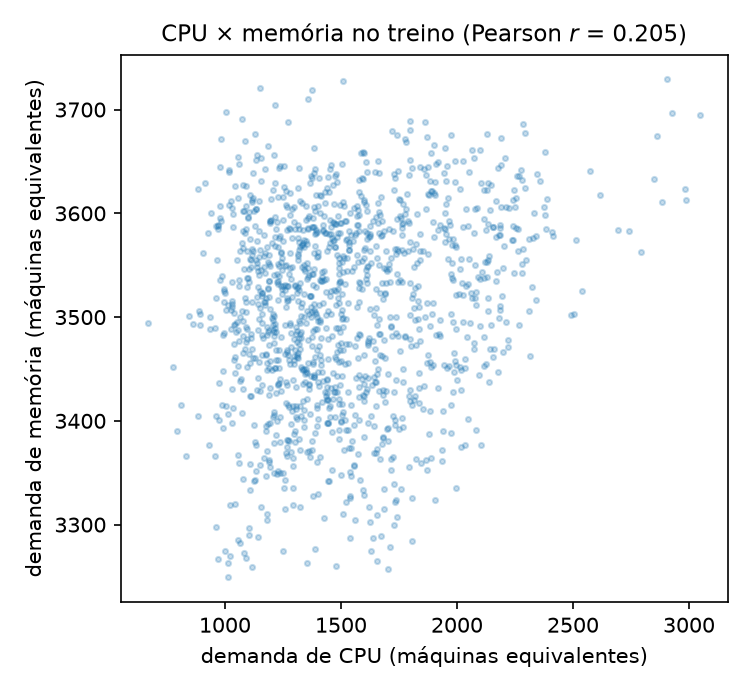
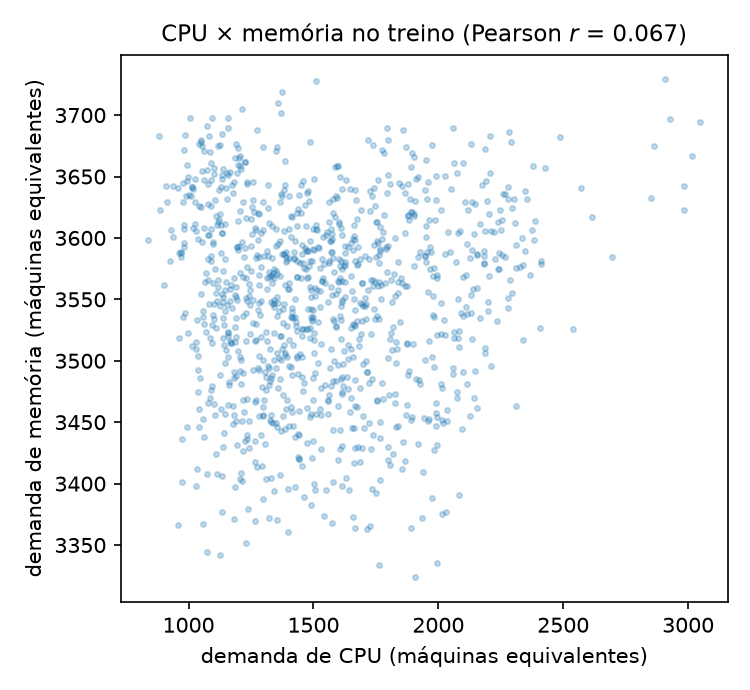
feat(fase-1): adota a definicao de demanda aprovada no G1
min_coverage = 0.9 e trim_leading_missing = true: a serie passa a ser o trecho
limpo do rastro, com 1769 intervalos (6,14 dias), cobertura minima de 0,978 e
zero NaN. Descarta 1,64 dia inicial com so 68% das maquinas reportando e o
apagao de coleta de 5 h que caia dentro do treino.

Tambem corrige o relatorio, que comparava estatisticas por maquina do rastro
completo com o numero de intervalos da serie cortada, e passa a formatar os
numeros em portugues. A fixture dos testes sinteticos agora fixa os parametros
da definicao base em vez de herda-los de configs/v0.toml.

diff --git a/src/tcc/data/quality.py b/src/tcc/data/quality.py
@@ -16,6 +16,19 @@ from tcc.data.paths import connect, interim_path, resolve
 from tcc.data.series import load_series, split_series
 
 
+def _pt(value: Any) -> str:
+    """Formata um número no padrão português: milhar com ponto, decimal com vírgula."""
+    if isinstance(value, bool):
+        return "sim" if value else "não"
+    if isinstance(value, (int,)) or (hasattr(value, "is_integer") and float(value).is_integer()):
+        text = f"{int(value):,}"
+    elif isinstance(value, float):
+        text = f"{value:,.4f}".rstrip("0").rstrip(".")
+    else:
+        return str(value)
+    return text.replace(",", "\x00").replace(".", ",").replace("\x00", ".")
+
+
 def _gap_runs(no_data: pd.Series) -> list[tuple[int, int]]:
     """Sequências contíguas de *buckets* sem dado, como (início, comprimento)."""
     runs: list[tuple[int, int]] = []
@@ -69,7 +82,8 @@ def collect_metrics(cfg: dict[str, Any]) -> pd.DataFrame:
                 max(last_bucket) AS max_last_bucket,
                 median(last_bucket) AS median_last_bucket,
                 count(*) FILTER (WHERE first_bucket = 0) AS n_starting_at_zero,
-                median(n_buckets) AS median_buckets_per_machine
+                median(n_buckets) AS median_buckets_per_machine,
+                max(last_bucket) + 1 AS n_buckets_trace
             FROM (
                 SELECT machine_id,
                        min(bucket) AS first_bucket,
@@ -96,6 +110,13 @@ def collect_metrics(cfg: dict[str, Any]) -> pd.DataFrame:
 
     rows: list[tuple[str, Any, str]] = [
         ("source", data["source"], "fonte dos dados"),
+        ("min_coverage", data["min_coverage"], "cobertura mínima para o intervalo valer"),
+        (
+            "trim_leading_missing",
+            data["trim_leading_missing"],
+            "descarta o trecho inicial sem demanda válida",
+        ),
+        ("first_bucket_start", int(series["bucket_start"].iloc[0]), "início da série, em segundos"),
         ("n_rows_raw", n_rows, "linhas lidas do CSV bruto"),
         ("n_machines", n_machines, "máquinas distintas no rastro (N da definição de demanda)"),
         ("n_intervals", t, f"intervalos de {interval} s na série final"),
@@ -174,9 +195,14 @@ def collect_metrics(cfg: dict[str, Any]) -> pd.DataFrame:
             "último bucket por máquina: mín./mediana/máx.",
         ),
         (
+            "n_buckets_trace",
+            int(per_machine["n_buckets_trace"]),
+            "buckets do rastro completo, antes de qualquer corte",
+        ),
+        (
             "median_buckets_per_machine",
             float(per_machine["median_buckets_per_machine"]),
-            "mediana de buckets com dado por máquina (de n_intervals possíveis)",
+            "mediana de buckets com dado por máquina, no rastro completo",
         ),
         (
             "split_sizes",
@@ -219,38 +245,50 @@ def write_quality_report(cfg: dict[str, Any]) -> Path:
         "",
         "## Resumo",
         "",
-        f"- {value('n_rows_raw'):,} linhas brutas, {value('n_machines'):,} máquinas distintas "
-        f"(**N = {value('n_machines')}** na definição de demanda).",
-        f"- {value('n_intervals'):,} intervalos, cobrindo {value('duration_days')} dias.",
-        f"- Amostragem original estimada em ~{value('sampling_seconds_median')} s por máquina "
+        f"- {_pt(value('n_rows_raw'))} linhas brutas, {_pt(value('n_machines'))} máquinas "
+        f"distintas (**N = {value('n_machines')}** na definição de demanda).",
+        f"- {_pt(value('n_intervals'))} intervalos, cobrindo "
+        f"{_pt(value('duration_days'))} dias, a partir de "
+        f"t = {_pt(value('first_bucket_start'))} s do rastro.",
+        f"- Amostragem original estimada em ~{_pt(value('sampling_seconds_median'))} s por máquina "
         f"(amostras por intervalo, p05–p95: {value('samples_per_bucket_p05_p95')}), "
         "confirmando que a amostragem é irregular.",
         f"- Divisão cronológica treino/validação/teste: {value('split_sizes')} intervalos.",
         "",
         "## Cobertura e lacunas",
         "",
-        f"- Cobertura mediana: {float(value('coverage_median')):.4f}; "
-        f"mínima: {float(value('coverage_min')):.4f}.",
+        f"- Cobertura mediana: {_pt(round(float(value('coverage_median')), 4))}; "
+        f"mínima: {_pt(round(float(value('coverage_min')), 4))}.",
         f"- Intervalos com cobertura < 100%: "
-        f"{float(value('frac_buckets_coverage_below_1')):.4f} do total.",
-        f"- Intervalos sem nenhuma amostra: {value('n_buckets_no_data')}; "
-        f"preenchidos por interpolação: {value('n_buckets_filled')}.",
+        f"{_pt(round(float(value('frac_buckets_coverage_below_1')) * int(value('n_intervals'))))}"
+        f" de {_pt(value('n_intervals'))}.",
+        f"- Regra em vigor: `min_coverage = {value('min_coverage')}` (intervalos com cobertura "
+        f"abaixo disso viram lacuna), `trim_leading_missing = "
+        f"{str(value('trim_leading_missing')).lower()}` e `max_fill_gap = "
+        f"{cfg['data']['max_fill_gap']}`.",
+        f"- Intervalos sem nenhuma amostra: {_pt(value('n_buckets_no_data'))}; "
+        f"preenchidos por interpolação: {_pt(value('n_buckets_filled'))}.",
         f"- Lacunas maiores que `max_fill_gap`: {value('n_gaps_above_max_fill')} "
         f"({value('gaps_above_max_fill_detail')}).",
+        "",
+        "As estatísticas por máquina abaixo são do **rastro completo** "
+        f"({_pt(value('n_buckets_trace'))} intervalos), antes do corte:",
+        "",
         f"- Mediana de intervalos com dado por máquina: "
-        f"{value('median_buckets_per_machine')} de {value('n_intervals')}.",
-        f"- Máquinas cujo primeiro intervalo é 0: {value('n_machines_starting_at_bucket_0')} "
-        f"de {value('n_machines')}; primeiro intervalo por máquina (mín./mediana/máx.): "
+        f"{_pt(value('median_buckets_per_machine'))} de {_pt(value('n_buckets_trace'))}.",
+        f"- Máquinas cujo primeiro intervalo é 0: "
+        f"{_pt(value('n_machines_starting_at_bucket_0'))} de {_pt(value('n_machines'))}; "
+        f"primeiro intervalo por máquina (mín./mediana/máx.): "
         f"{value('machine_first_bucket_min_median_max')}; último: "
-        f"{value('machine_last_bucket_min_median_max')}. Isso responde se os `time_stamp` "
-        "compartilham a mesma origem.",
+        f"{value('machine_last_bucket_min_median_max')}. Os `time_stamp` compartilham a mesma "
+        "origem; o que varia é o tempo de vida de cada máquina no rastro.",
         f"- `NaN` restantes em `demand_cpu`: {value('n_nan_demand_cpu')}.",
         "",
         "## Amostras descartadas",
         "",
-        f"- CPU nula ou fora de [0, 100]: {value('n_cpu_dropped')} amostras "
+        f"- CPU nula ou fora de [0, 100]: {_pt(value('n_cpu_dropped'))} amostras "
         f"({float(value('frac_cpu_dropped')):.2e} das linhas).",
-        f"- Memória nula ou fora de [0, 100]: {value('n_mem_dropped')} amostras.",
+        f"- Memória nula ou fora de [0, 100]: {_pt(value('n_mem_dropped'))} amostras.",
         "",
         "## Demanda (em máquinas equivalentes totalmente utilizadas)",
         "",
@@ -259,8 +297,9 @@ def write_quality_report(cfg: dict[str, Any]) -> Path:
     ]
     for col in ("demand_cpu", "demand_mem"):
         lines.append(
-            f"| `{col}` | {value(f'{col}_min')} | {value(f'{col}_mean')} | "
-            f"{value(f'{col}_median')} | {value(f'{col}_p95')} | {value(f'{col}_max')} |"
+            f"| `{col}` | {_pt(value(f'{col}_min'))} | {_pt(value(f'{col}_mean'))} | "
+            f"{_pt(value(f'{col}_median'))} | {_pt(value(f'{col}_p95'))} | "
+            f"{_pt(value(f'{col}_max'))} |"
         )
     lines += [
         "",
@@ -268,8 +307,8 @@ def write_quality_report(cfg: dict[str, Any]) -> Path:
         "",
         "- **Demanda censurada:** a utilização por máquina tem teto de 100%, então em momentos",
         "  de saturação a demanda observada subestima a demanda real.",
-        "- A série cobre ~8 dias, o que deixa o conjunto de teste pequeno (limitação aceita",
-        "  no v0).",
+        f"- A série cobre {_pt(value('duration_days'))} dias, o que deixa o conjunto de teste",
+        "  pequeno (limitação aceita no v0).",
         "",
         "Tabela completa em `results/tables/data_quality.csv`.",
         "",

diff --git a/src/tcc/data/figures.py b/src/tcc/data/figures.py
@@ -88,9 +88,13 @@ def plot_series_day(series: pd.DataFrame, interval: int, out: Path, day: int = 2
     fig, ax = plt.subplots(figsize=(9, 3.6))
     ax.plot(hours, window["demand_cpu"], lw=1.2, color="#1f77b4", label="CPU")
     ax.plot(hours, window["demand_mem"], lw=1.2, color="#9467bd", ls="--", label="memória")
-    ax.set_xlabel(f"hora dentro do dia {day} do rastro")
+    absolute_day = float(window["bucket_start"].iloc[0]) / 86400.0
+    ax.set_xlabel(f"hora dentro do dia {day} da série")
     ax.set_ylabel("demanda $d_t$ (máquinas equivalentes)")
-    ax.set_title(f"Variação intradiária da demanda (dia {day}, intervalos de 5 min)", fontsize=11)
+    ax.set_title(
+        f"Variação intradiária da demanda (dia {day} da série, t ≈ {absolute_day:.2f} d do rastro)",
+        fontsize=11,
+    )
     ax.set_xticks(range(0, 25, 3))
     ax.legend(fontsize=9)
     ax.margins(x=0.01)

diff --git a/tests/test_data.py b/tests/test_data.py
@@ -51,6 +51,10 @@ def synthetic_cfg(tmp_path: Path) -> dict[str, Any]:
         "raw_path": str(raw),
         "interim_dir": str(tmp_path / "interim"),
         "processed_dir": str(tmp_path / "processed"),
+        # Estes testes cobrem a definição base de demanda: as duas regras opcionais têm
+        # testes próprios e não devem variar conforme o que estiver em configs/v0.toml.
+        "min_coverage": 0.0,
+        "trim_leading_missing": False,
     }
     return cfg
 

diff --git a/results/data_quality.md b/results/data_quality.md
@@ -4,20 +4,24 @@ Fonte: **alibaba2018** · agregação em intervalos de **300 s** · gerado por `
 
 ## Resumo
 
-- 246,934,820 linhas brutas, 4,023 máquinas distintas (**N = 4023** na definição de demanda).
-- 2,304 intervalos, cobrindo 8.0 dias.
-- Amostragem original estimada em ~10.0 s por máquina (amostras por intervalo, p05–p95: 29-30), confirmando que a amostragem é irregular.
-- Divisão cronológica treino/validação/teste: 1382/460/462 intervalos.
+- 246.934.820 linhas brutas, 4.023 máquinas distintas (**N = 4023** na definição de demanda).
+- 1.769 intervalos, cobrindo 6,142 dias, a partir de t = 160.500 s do rastro.
+- Amostragem original estimada em ~10 s por máquina (amostras por intervalo, p05–p95: 29-30), confirmando que a amostragem é irregular.
+- Divisão cronológica treino/validação/teste: 1061/353/355 intervalos.
 
 ## Cobertura e lacunas
 
-- Cobertura mediana: 0.9975; mínima: 0.0000.
-- Intervalos com cobertura < 100%: 1.0000 do total.
-- Intervalos sem nenhuma amostra: 61; preenchidos por interpolação: 0.
-- Lacunas maiores que `max_fill_gap`: 1 (t=473 (61 intervalos)).
-- Mediana de intervalos com dado por máquina: 2092.0 de 2304.
-- Máquinas cujo primeiro intervalo é 0: 2348 de 4023; primeiro intervalo por máquina (mín./mediana/máx.): 0/0/2067; último: 190/2303/2303. Isso responde se os `time_stamp` compartilham a mesma origem.
-- `NaN` restantes em `demand_cpu`: 61.
+- Cobertura mediana: 0,9978; mínima: 0,9779.
+- Intervalos com cobertura < 100%: 1.769 de 1.769.
+- Regra em vigor: `min_coverage = 0.9` (intervalos com cobertura abaixo disso viram lacuna), `trim_leading_missing = true` e `max_fill_gap = 3`.
+- Intervalos sem nenhuma amostra: 0; preenchidos por interpolação: 0.
+- Lacunas maiores que `max_fill_gap`: 0 (nenhuma).
+
+As estatísticas por máquina abaixo são do **rastro completo** (2.304 intervalos), antes do corte:
+
+- Mediana de intervalos com dado por máquina: 2.092 de 2.304.
+- Máquinas cujo primeiro intervalo é 0: 2.348 de 4.023; primeiro intervalo por máquina (mín./mediana/máx.): 0/0/2067; último: 190/2303/2303. Os `time_stamp` compartilham a mesma origem; o que varia é o tempo de vida de cada máquina no rastro.
+- `NaN` restantes em `demand_cpu`: 0.
 
 ## Amostras descartadas
 
@@ -28,14 +32,14 @@ Fonte: **alibaba2018** · agregação em intervalos de **300 s** · gerado por `
 
 | Série | mín. | média | mediana | p95 | máx. |
 |---|---|---|---|---|---|
-| `demand_cpu` | 670.472 | 1528.456 | 1486.912 | 2197.262 | 3156.257 |
-| `demand_mem` | 3126.22 | 3540.56 | 3550.45 | 3690.827 | 3794.69 |
+| `demand_cpu` | 839,795 | 1.551,759 | 1.521,762 | 2.208,684 | 3.156,257 |
+| `demand_mem` | 3.126,22 | 3.566,153 | 3.572,283 | 3.700,132 | 3.794,69 |
 
 ## Limitações
 
 - **Demanda censurada:** a utilização por máquina tem teto de 100%, então em momentos
   de saturação a demanda observada subestima a demanda real.
-- A série cobre ~8 dias, o que deixa o conjunto de teste pequeno (limitação aceita
-  no v0).
+- A série cobre 6,142 dias, o que deixa o conjunto de teste
+  pequeno (limitação aceita no v0).
 
 Tabela completa em `results/tables/data_quality.csv`.
